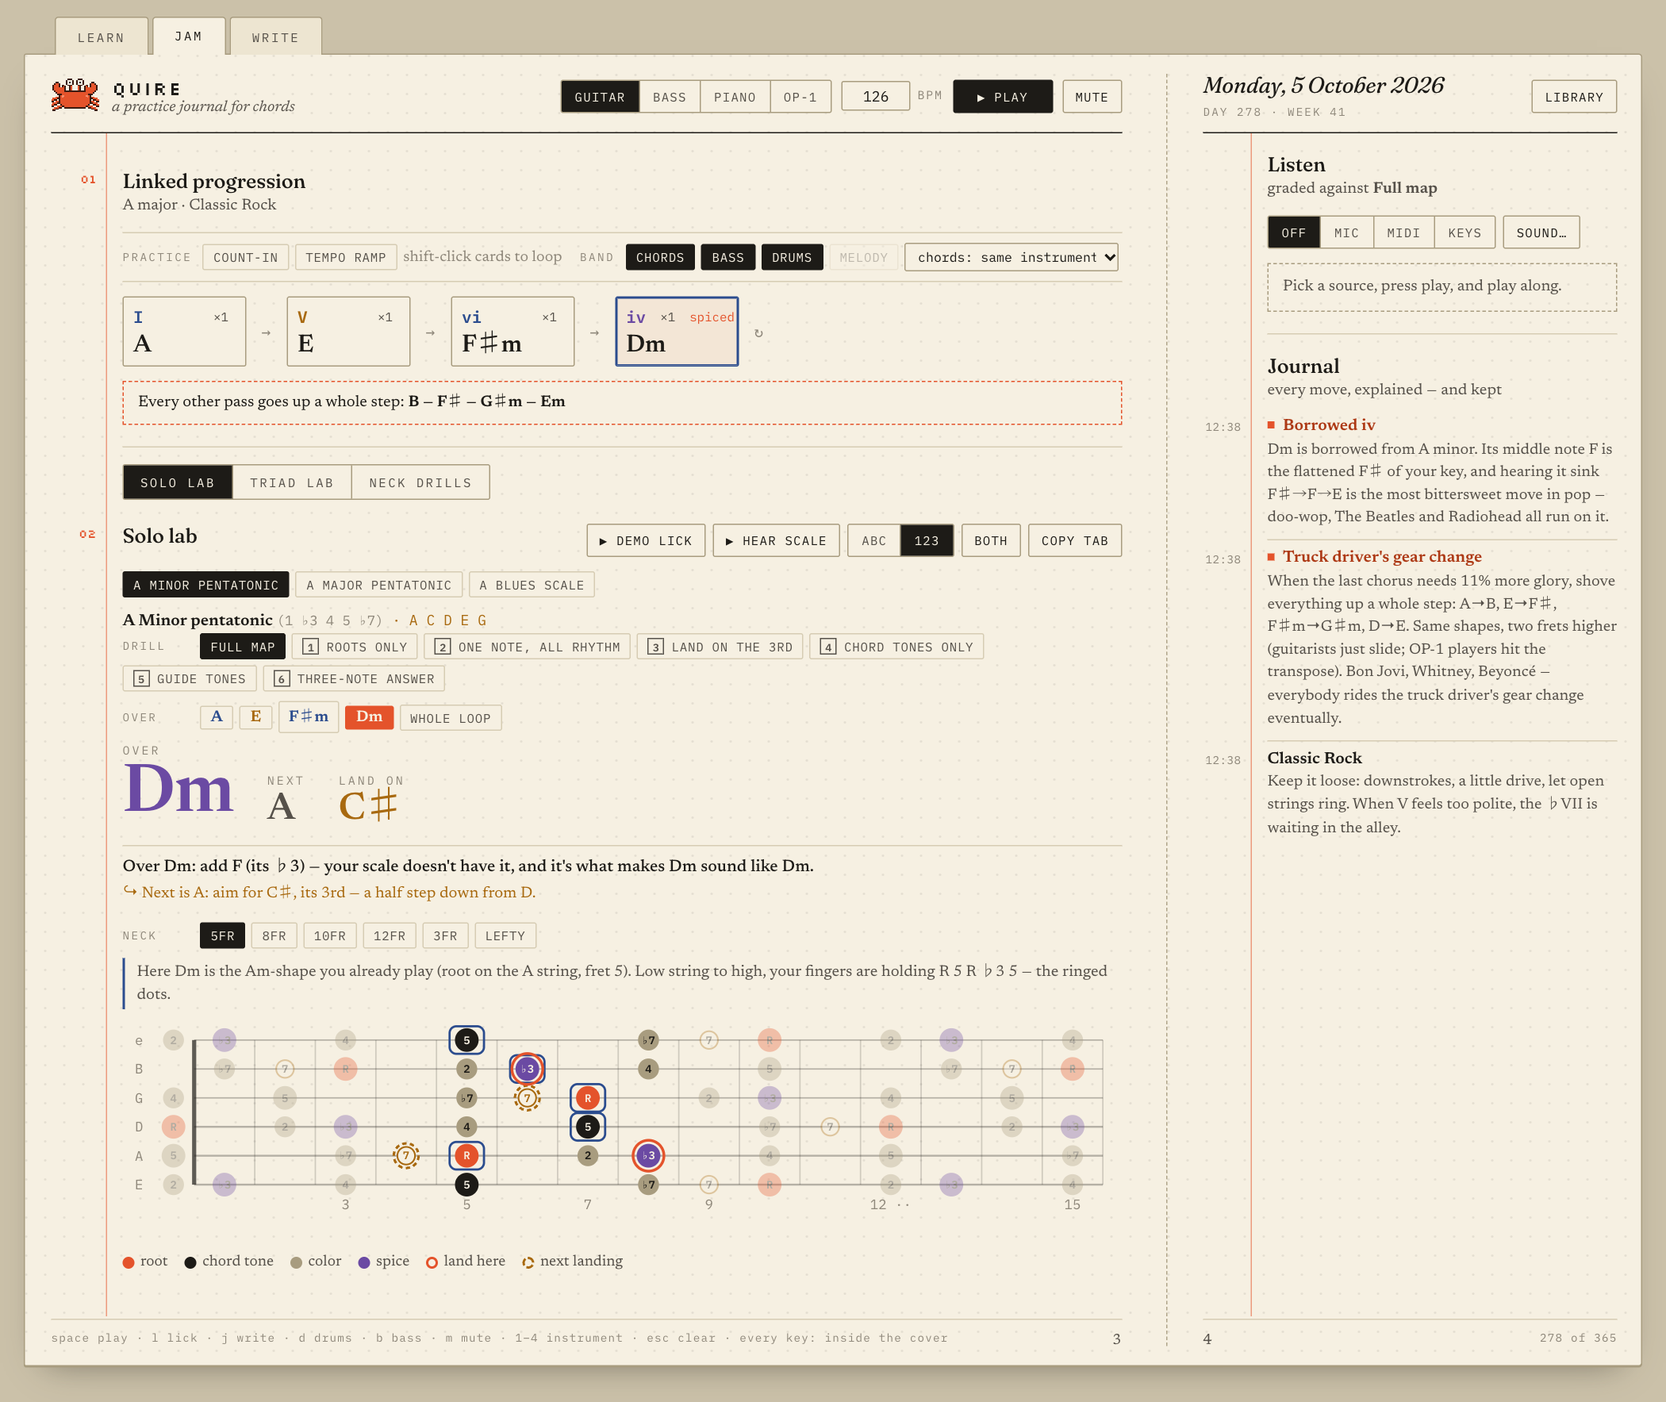
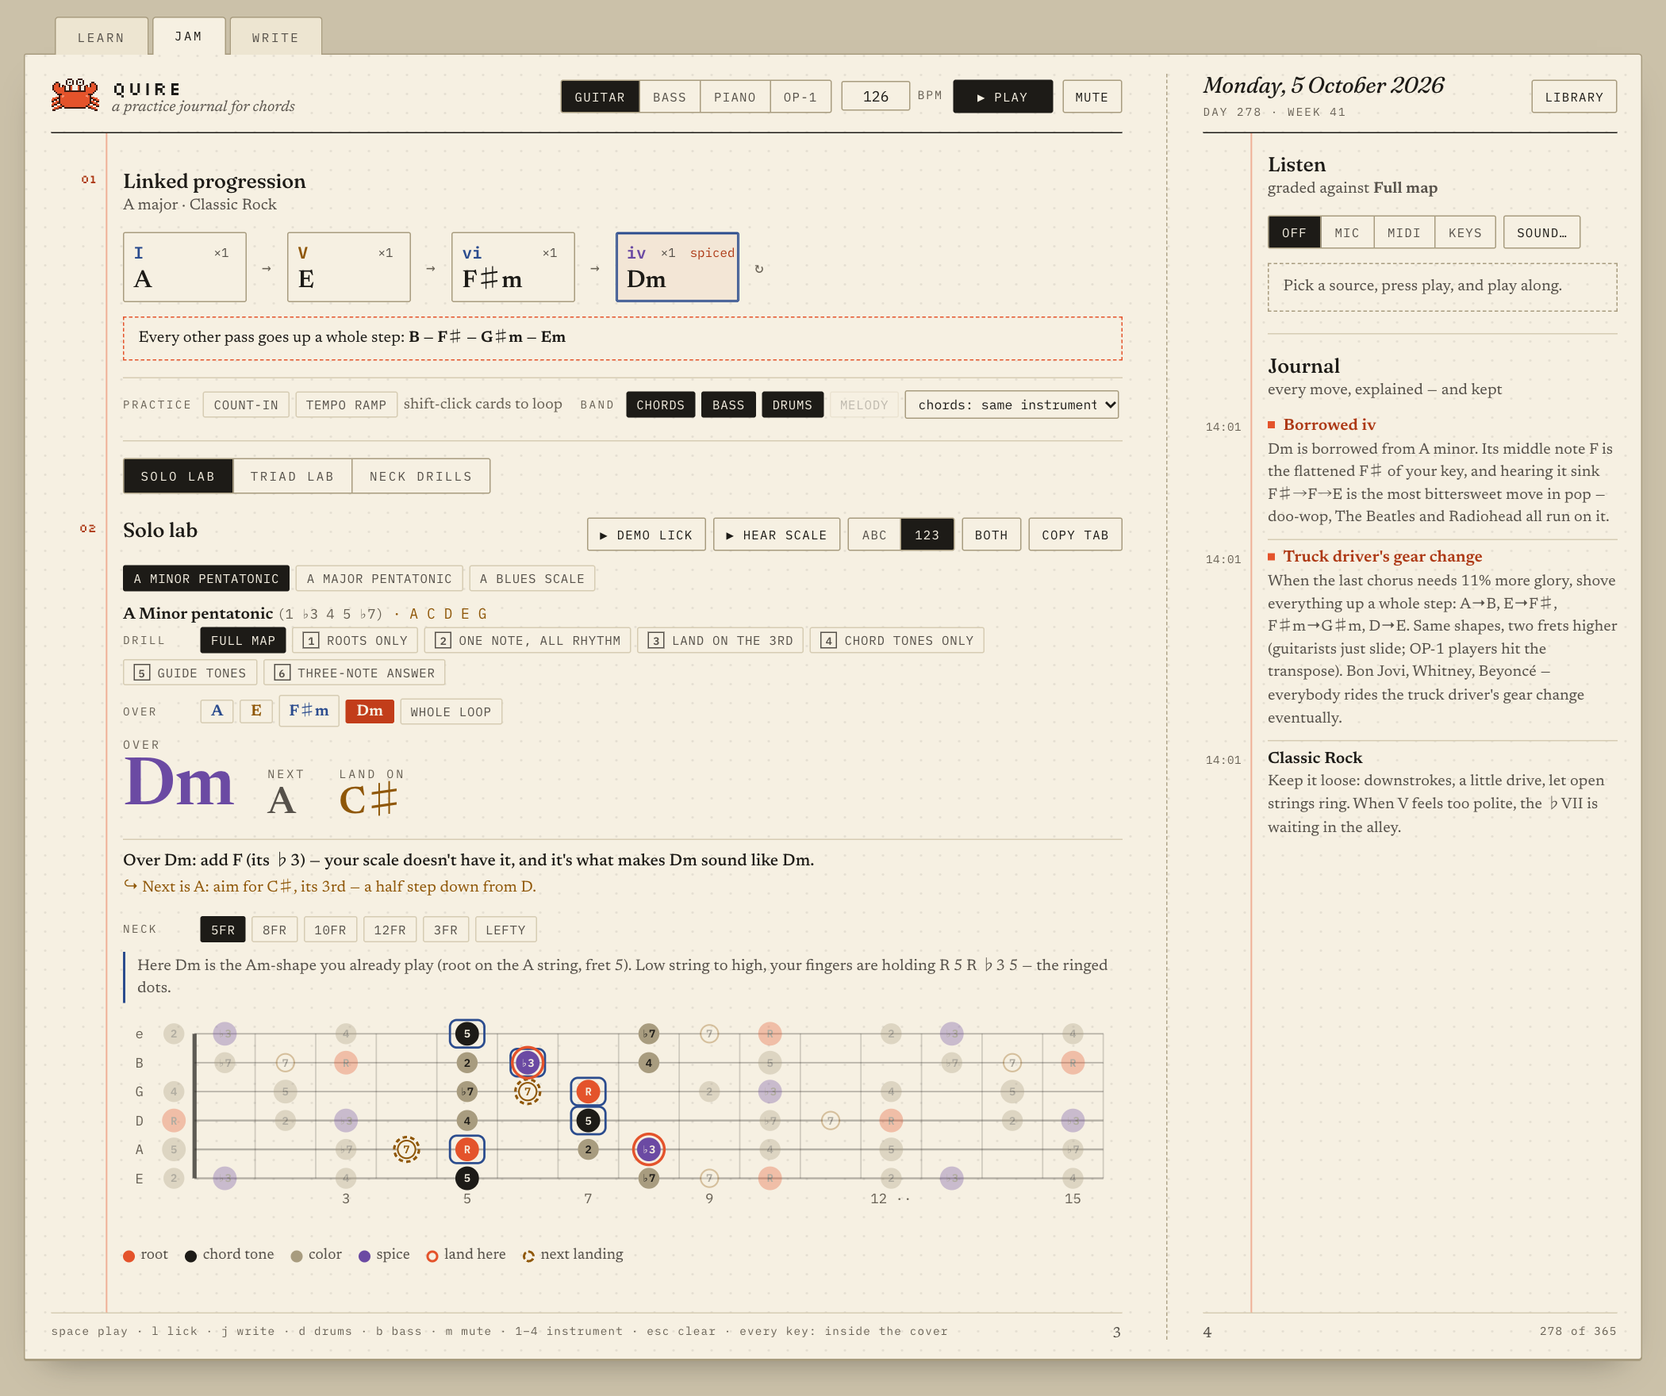
quire: the film, retaken pictures, and three checks on every page
npm run shots now checks three things wherever its session goes: that no
text touches the margin rule, that every piece of text reaches 4.5:1 against
what is behind it (3:1 for large type; disabled controls and the diagrams
are exempt), and that nothing was thrown or logged as an error. It waits for
whatever is inking in to finish first. It also visits a journal nobody has
written in, the genres unfolded, a lesson in hand and a second song section.

--film records the README's fourteen seconds (play, two rolls of the spice
rack, a page turn to Jam): frames at a steady rate while the session is
driven in real time, then one ffmpeg pass with a single palette.

The pictures are retaken with the new layout; the README leads with the
film and a link to the live build, and the tour, the guide and the build
notes describe the spread that stays put, the folding genre row, the bench's
one row of tools, the step to take next, and the checks.

diff --git a/README.md b/README.md
@@ -23,12 +23,12 @@
   <a href="LICENSE"><img alt="Licence: MIT" src="https://img.shields.io/badge/licence-MIT-cbc1a9?style=flat-square&labelColor=1d1b17"></a>
 </p>
 
-<p align="center"><a href="#run-it">Run it</a> · <a href="docs/features.md">The complete tour</a> · <a href="#how-it-is-built">How it is built</a> · <a href="docs/guide.md">A quick guide</a></p>
+<p align="center"><a href="https://crabbtech.github.io/quire/"><b>Open it in your browser</b></a> · <a href="#run-it">Run it</a> · <a href="docs/features.md">The complete tour</a> · <a href="#how-it-is-built">How it is built</a> · <a href="docs/guide.md">A quick guide</a></p>
 
 <p align="center">
-  <img src="docs/screenshots/write.png" width="100%" alt="Quire's Write page, an open notebook on a desk: chord cards for A, E, F♯m and Dm with guitar grids and the spice controls; on the right page, the dated journal explaining a borrowed iv and a truck driver's gear change, and what could come next.">
+  <img src="docs/screenshots/quire.gif" width="100%" alt="Fourteen seconds of Quire in use. On the Write page, an open notebook on a desk, the loop plays and each chord card lights in turn; two presses of Spice it up change the loop and a dated journal entry inks in on the right page each time; then the page turns to Jam, where the solo lab follows the chords.">
 </p>
-<p align="center"><sub>Write, in A major, Classic Rock. Two presses of <i>Spice it up</i> turned D into Dm (a borrowed iv) and made every other pass climb a whole step; the journal on the right page says why, in the app's own words, with the time it said it.</sub></p>
+<p align="center"><sub>Fourteen seconds, as recorded by <code>npm run shots -- --film</code>: the loop plays, <i>Spice it up</i> is pressed twice and the journal on the right page says what changed and why, then the page turns to Jam, where the solo lab follows the chords.</sub></p>
 
 ## What it does
 
@@ -42,7 +42,7 @@ OP-1 field's two-octave keyboard. It is the software version of those die-cut
 
 | Page | What happens there |
 | --- | --- |
-| **Learn** | The contents: eight paths of short steps (39 in all), each of which sets the bench up and asks for one thing. Where the app can hear you, it ticks the step off itself. The month as a stamp card, the records, and the burrow. |
+| **Learn** | The contents: eight paths of short steps (39 in all), each of which sets the bench up and asks for one thing. Where the app can hear you, it ticks the step off itself. The step to take next, the month as a stamp card, the records, and the burrow. |
 | **Jam** | Instrument in hand. The chords shrink to a chart and the page goes to one tool: the Solo lab, the Triad lab or the Neck drills. Press play and the app listens (microphone, audio interface, MIDI or the computer keyboard) and grades each pass. |
 | **Write** | The bench: key, mode and genre (19 genres, and a Genre lab for your own), song sections, the chords with every harmonic tool, *What next*, the melody workbench and the crab canon, with the journal alongside. |
 
@@ -53,19 +53,23 @@ OP-1 field's two-octave keyboard. It is the software version of those die-cut
 <p align="center"><sub><b>Jam.</b> Left: the Solo lab over the borrowed Dm, every note numbered from the chord that is sounding. F is marked as a spice (Dm's ♭3, which the A minor pentatonic doesn't have), the grip you already play is ringed, and dashed rings show where to land when A comes back. Right: the Triad lab on the top three strings; the solver's path travels 12 frets a loop, where root position everywhere would travel 52.</sub></p>
 
 <details>
-<summary>More of the journal: the OP-1 field's keys, Learn, and the inside cover</summary>
+<summary>More of the journal: Write up close, the OP-1 field's keys, Learn, and the inside cover</summary>
 <br>
+<img src="docs/screenshots/write.png" width="100%" alt="Quire's Write page: chord cards for A, E, F♯m and Dm with guitar grids and one row of tools above them; on the right page, the dated journal explaining a borrowed iv and a truck driver's gear change, and what could come next.">
+<p align="center"><sub>Write, in A major, Classic Rock. Two presses of <i>Spice it up</i> turned D into Dm (a borrowed iv) and made every other pass climb a whole step; the journal on the right page says why, in the app's own words, with the time it said it.</sub></p>
 <img src="docs/screenshots/write-op1.png" width="100%" alt="The Write page with the instrument set to OP-1: each chord card shows the OP-1 field's 24 keys with the inversion lit.">
 <p align="center"><sub>The same bench on the OP-1 field: each card shows its 24 keys with the inversion that fits one hand.</sub></p>
-<img src="docs/screenshots/learn.png" width="100%" alt="The Learn page: the contents with learning paths and their steps, and on the right page Today, the month's stamp card and the records.">
-<p align="center"><sub>Learn: the contents and, on the right page, Today, the month's stamp card and the records. This journal is brand new, so every counter reads zero and no day is stamped yet.</sub></p>
+<img src="docs/screenshots/learn.png" width="100%" alt="The Learn page in a new journal: the contents with learning paths and their steps, and on the right page a Start here card for the first step, the month's stamp card and the records.">
+<p align="center"><sub>Learn, in a journal nobody has written in yet: the contents and, on the right page, where to start, the month's stamp card (no day stamped so far) and the records.</sub></p>
 <img src="docs/screenshots/inside-cover.png" width="100%" alt="The inside cover: the gloss of the name, a plate of a crab playing guitar on a shore, a line for the owner's name, the keyboard shortcuts and a colophon.">
 <p align="center"><sub>The inside cover, opened from the wordmark: the gloss, a plate, whose journal it is, every keyboard shortcut, and a colophon.</sub></p>
 </details>
 
 **The look.** An open notebook on a desk: a two-page spread with a stitched
 gutter, cream paper with a faint dot grid, a vermilion margin rule, running
-heads and folios. Teaching text is set in Newsreader, headings in Fraunces,
+heads and folios. The spread fills the window and stays put; each page scrolls
+on its own between its head and its foot, so the transport and the journal are
+always in reach. Teaching text is set in Newsreader, headings in Fraunces,
 labels in IBM Plex Mono capitals; harmonic function and note roles keep their
 own inks because they mean something. Apart from one plate on the inside cover,
 the only decoration is a 32×24 pixel crab, placed by hand and drawn as SVG
@@ -146,7 +150,7 @@ flowchart LR
   grading and the burrow are plain TypeScript with no React and no audio in
   them. One hook, `useAppController()`, wires them to React and the audio
   engine; components only render.
-- **277 tests in 31 files**, beside the code they test: every grip in the
+- **278 tests in 31 files**, beside the code they test: every grip in the
   chord-shape library at every root against its chord's formula; every genre's
   spice rack against its own templates; the pitch detector on sine waves at two
   sample rates, a louder second harmonic, a bass low E, a note that starts
@@ -158,11 +162,12 @@ flowchart LR
   and sends what it heard to the page about 47 times a second; the note tracker
   stays in TypeScript, so the microphone, the interface and the tests share one
   set of ears.
-- **Screenshots that are retaken, margins that are checked.** `npm run shots`
-  drives a headless Chrome over the DevTools protocol (nothing to install beyond
-  Node 22 and Chrome), stages a session from a seeded roll of the spice rack,
-  writes the pictures in this README, and exits 1 if any text touches the
-  vermilion margin rule.
+- **Pictures that are retaken, pages that are checked.** `npm run shots` drives
+  a headless Chrome over the DevTools protocol (nothing to install beyond Node
+  22 and Chrome), stages a session from a seeded roll of the spice rack, and
+  writes the pictures and the film in this README. On every page it visits it
+  exits 1 if any text touches the vermilion margin rule, if any text falls
+  under 4.5:1 against the paper behind it, or if anything logged an error.
 - **Nothing to load.** Every sound is synthesised in Web Audio (Karplus-Strong
   strings, small oscillator voices), with no samples; the four typefaces are
   bundled.
@@ -172,8 +177,10 @@ The source map, the Rust side's commands and events, and the deep links are in
 
 ## Run it
 
-You need Node 22 or newer; the Mac app also needs Xcode's command line tools and
-Rust ([rustup](https://rustup.rs)).
+The web build is live at <https://crabbtech.github.io/quire/>: the whole app
+except the native pieces, with nothing to install. To run it yourself you need
+Node 22 or newer; the Mac app also needs Xcode's command line tools and Rust
+([rustup](https://rustup.rs)).
 
 ```bash
 git clone https://github.com/CrabbTech/quire.git
@@ -181,7 +188,7 @@ cd quire
 npm ci
 npm run dev            # the journal in a browser, at http://localhost:1430
 npm run tauri dev      # or as the Mac app (the first run compiles the Rust side)
-npm test               # 277 tests, a few seconds
+npm test               # 278 tests, a few seconds
 npm run tauri build    # Quire.app and a .dmg in src-tauri/target/release/bundle/
 ```
 

diff --git a/docs/features.md b/docs/features.md
@@ -25,6 +25,10 @@ melody workbench, the crab canon, and the reasons alongside.
   loops, the spices on its rack, the scales it recommends for soloing (and
   why), a voicing style, a strum or arpeggio pattern (swung where the style
   wants it), a drum pattern and a tempo.
+- The genre row is folded until you want it: it shows the genre in play and
+  its line from the genre book ("Open chords, borrowed ♭VII, tube amp
+  optional."). **All 19 genres** unfolds every genre and the Genre lab,
+  **Fold** puts them away, and the row stays the way you left it.
 - **Genre lab**: build your own. Give it a name, the built-in genre it grooves
   like (its groove, scales and voicings are inherited), a tempo, power chords
   (off, plain chords only, or all), progressions typed one per line as
@@ -68,6 +72,12 @@ melody workbench, the crab canon, and the reasons alongside.
   authentic, plagal, deceptive, half), starting on the tonic or not.
 - Click a card's bar count to cycle it (1, 2, 4, ½ bar); the arrows under a
   guitar grid cycle its voicings.
+- The bench is laid out in the order you use it. Where a loop comes from
+  (*Compose*, a named progression, *New*) sits beside its name. One row of
+  tools runs above the cards: what changes the loop on the left (*Spice it up*,
+  the heat, *Undo*, *A/B*, *Reset*), what takes it away on the right (*Copy
+  tab*, *MIDI*, *Save*). How it is practised (count-in, tempo ramp, the band)
+  is the strip under the cards.
 
 ### The spice rack
 
@@ -377,10 +387,14 @@ other pass.
 
 ### Today and the records
 
-The right page is today: steps done, the day streak, graded passes, and the
-month as a **stamp card** with the crab pressed on every day you practised.
-**Records** keep the best graded pass per drill, the best sprint per neck
-drill and the deepest burrow per genre.
+The right page is today. In a new journal it says where to start: the first
+step of the first path, with what the step asks for and a **Begin** button.
+From then on it leads with the step to take next (the one in hand, else the
+next step of the first path you have begun), above the counters (steps done,
+the day streak, graded passes) and the month as a **stamp card** with the crab
+pressed on every day you practised. **Records** keep the best graded pass per
+drill, the best sprint per neck drill and the deepest burrow per genre; they
+are listed once there are any.
 
 ## Instruments and sound
 
@@ -436,10 +450,20 @@ wordmark (walking while the band plays), the app icon, the canon's cursor on
 the Möbius strip, the verdict's rating, and the stamp pressed on every
 practice day. No emoji.
 
+- **The spread stays put.** It fills the window, and each page scrolls on its
+  own between its running head and its foot, so the transport, the tabs and
+  the journal are in reach wherever the bench is scrolled to. Under 1100px
+  wide the pages stack and the window scrolls instead.
 - Every move the app explains (a spice, a reharmonisation, a mirrored song, a
   loaded save) is written into the **journal** on the right page with the
   time, and kept between sessions under day headings (Today, Yesterday, Mon
-  21 Sep). New lines ink in.
+  21 Sep). New lines ink in. The page shows the six newest lines; *Earlier in
+  the journal* unfolds the rest. A journal with nothing in it yet says what to
+  press, and what will be written.
+- **Inks that read.** Every ink that sets small type reaches 4.5:1 against the
+  paper it is printed on, cream lettering sits on a vermilion deep enough to
+  carry it, and keyboard focus is one ink ring everywhere. `npm run shots`
+  measures the contrast on every page it visits.
 - **Learn** opens on the contents: paths with hand-drawn ticks for finished
   steps; the right page is today and the stamp card.
 - Turning to another page runs as a page turn (View Transitions where the

diff --git a/docs/guide.md b/docs/guide.md
@@ -5,6 +5,10 @@ little Rust) that also runs in a browser. This page gets it onto your machine
 and shows you around. Every feature is in [the complete tour](features.md); how
 the code fits together is in [how it is built](architecture.md).
 
+To try it without installing anything, the web build is at
+<https://crabbtech.github.io/quire/>. It is the whole app except the native
+pieces (the audio interface input, CoreMIDI and the menu bar).
+
 ## Get the code
 
 ```bash
@@ -57,7 +61,7 @@ audio interfaces.
 ### Checks
 
 ```bash
-npm test                    # 277 tests in 31 files, a few seconds
+npm test                    # 278 tests in 31 files, a few seconds
 npx tsc --noEmit            # types
 npm run build               # type-check, then the production bundle in dist/
 (cd src-tauri && cargo check && cargo test -p quire-dsp)   # the Rust side; 7 pitch tests
@@ -80,16 +84,19 @@ runtime needs, and the microphone prompt's wording is
 With `npm run dev` running in another terminal:
 
 ```bash
-npm run shots                    # writes docs/screenshots/*.png and checks the margins
-npm run shots -- --check-only    # the margin checks alone
+npm run shots                    # writes docs/screenshots/*.png and checks every page
+npm run shots -- --check-only    # the checks alone
+npm run shots -- --film          # also records docs/screenshots/quire.gif (needs ffmpeg)
 npm run shots -- --seed 12       # another roll of the spice rack (16 is the README's)
 ```
 
 The script drives a headless Chrome in a throwaway profile, so the journal in
-every picture is the one that session wrote. It exits 1 if any text touches the
-margin rule, and 2 if nothing is answering at the dev server's address. Set
-`CHROME` if Chrome lives somewhere unusual and `QUIRE_URL` to point it at
-another address.
+every picture is the one that session wrote. On every page it visits it checks
+three things: that no text touches the margin rule, that every piece of text
+reaches 4.5:1 against what is behind it (3:1 for large type), and that nothing
+was thrown or logged as an error. It exits 1 on a miss, and 2 if nothing is
+answering at the dev server's address. Set `CHROME` if Chrome lives somewhere
+unusual and `QUIRE_URL` to point it at another address.
 
 ### Serving the web build from a sub-path
 
@@ -99,6 +106,9 @@ sub-path instead (a GitHub Pages project site, say), set `VITE_BASE`:
 ```bash
 VITE_BASE=/quire/ npm run build
 ```
+
+That is what `.github/workflows/deploy.yml` does on every push to `main`, after
+the tests, to publish <https://crabbtech.github.io/quire/>.
 
 ## Finding your way around
 
@@ -113,7 +123,11 @@ The app is an open notebook with three pages, as tabs along the top:
   play and the app listens (mic, interface, MIDI or keyboard) and grades each
   pass.
 - **Learn** is the contents page: eight short paths that stage the bench for
-  you, the practice stamp card, the records, and **the burrow**.
+  you, the practice stamp card, the records, and **the burrow**. In a new
+  journal its right page says where to start.
+
+The spread fills the window, and each page scrolls on its own, so the
+transport and the journal stay put while the bench scrolls.
 
 The inside cover (click the crab and wordmark at the top left, or
 <kbd>⌘</kbd> <kbd>I</kbd> in the Mac app) lists every keyboard shortcut. The

diff --git a/docs/architecture.md b/docs/architecture.md
@@ -109,7 +109,7 @@ writes files where the save dialog says.
 
 ## What the tests pin down
 
-`npm test` runs 277 tests in 31 files; `cargo test -p quire-dsp` (in
+`npm test` runs 278 tests in 31 files; `cargo test -p quire-dsp` (in
 `src-tauri`) runs the Rust detector's 7.
 
 | Area | Test files | What they pin down |
@@ -130,9 +130,26 @@ DevTools protocol with Node's own `fetch` and `WebSocket`: no Puppeteer, no
 Playwright, nothing to install beyond Node 22 and Chrome. It seeds
 `Math.random` (seed 16) so the spice rack rolls the same way every time, stages
 one session at the Mac app's default window size, and writes
-`docs/screenshots/*.png`. On every page it visits, it checks that no text
-touches the vermilion margin rule or leaves the page; `--check-only` runs the
-checks without writing pictures, and a miss exits 1.
+`docs/screenshots/*.png`; `--film` also records the short film at the top of
+the README (frames taken at a steady rate while the session is driven in real
+time, then one ffmpeg pass with a single palette).
+
+On every page it visits, it checks three things, and a miss exits 1
+(`--check-only` runs the checks without writing pictures):
+
+- **Margins.** No text touches the vermilion margin rule or leaves the page.
+- **Contrast.** Every piece of HTML text is measured against what is behind it,
+  opacity included, and must reach 4.5:1 (3:1 for large type). Disabled
+  controls are exempt, and so are the diagrams, where the faint dots are the
+  rest of the neck and are meant to recede.
+- **Errors.** Nothing was thrown, and nothing was logged with `console.error`.
+
+## The live build
+
+`.github/workflows/deploy.yml` runs on every push to `main`: `npm ci`, the
+tests, then `npm run build` with `VITE_BASE=/quire/`, and the bundle goes to
+GitHub Pages at <https://crabbtech.github.io/quire/>. The web build keeps its
+journal in the browser's localStorage, like the Mac app's webview does.
 
 ## Deep links
 

diff --git a/docs/development-notes.md b/docs/development-notes.md
@@ -7,7 +7,7 @@ now match this repository: Quire used to live in `v2/` of
 [CrabbTech/spicerack](https://github.com/CrabbTech/spicerack), and that prefix
 is gone. Branch names such as `claude/spicerack-journal-redesign-swzb1h` and
 `claude/quire-mac-app` refer to that original repository. Test counts are as
-they stood at the time; the suite has since grown to 277.
+they stood at the time; the suite has since grown to 278.
 
 ---
 
